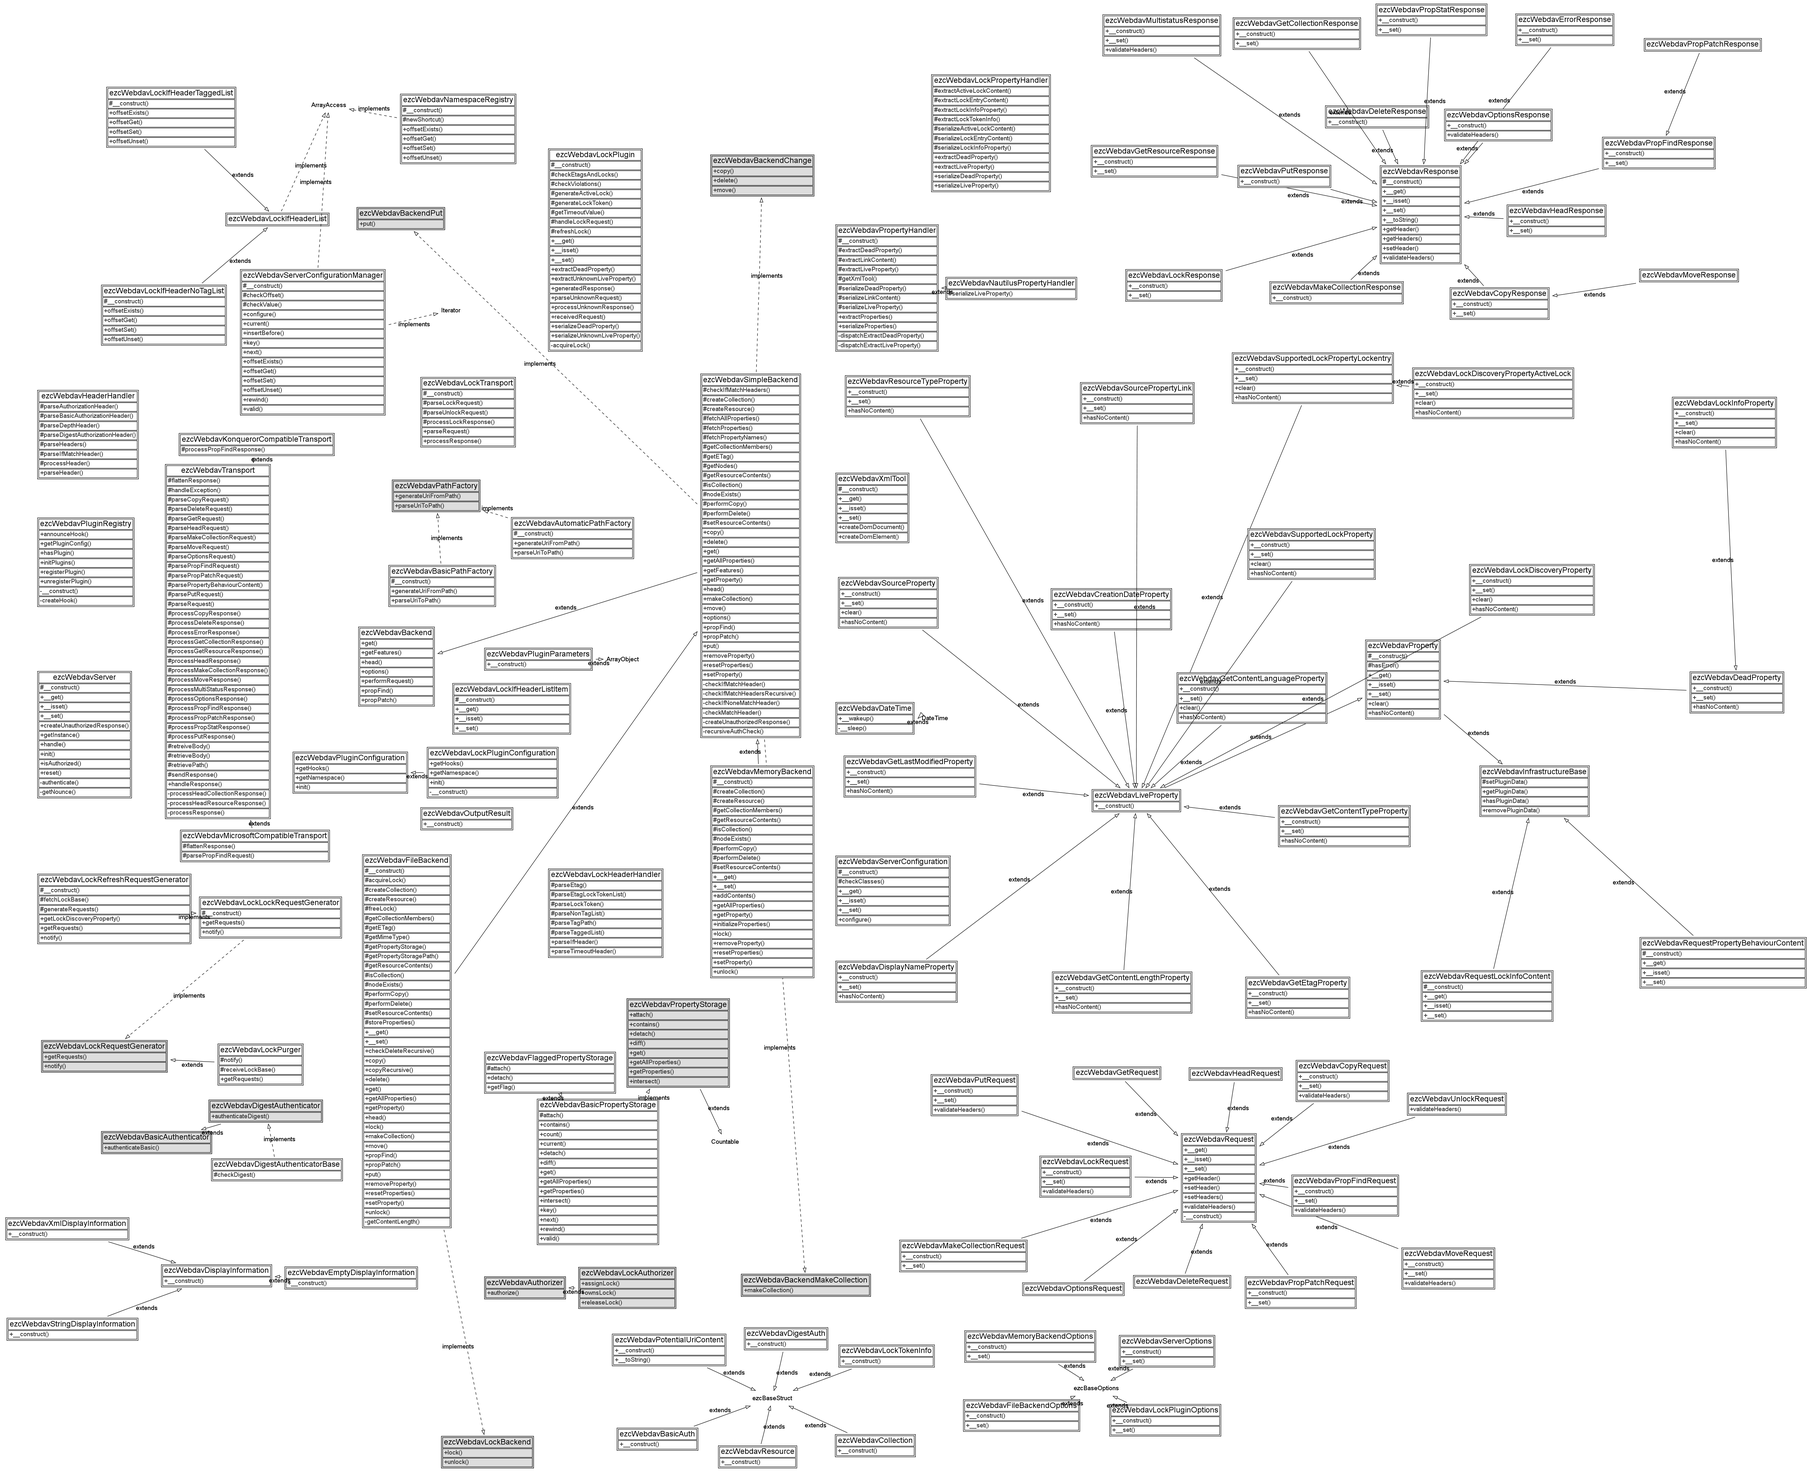
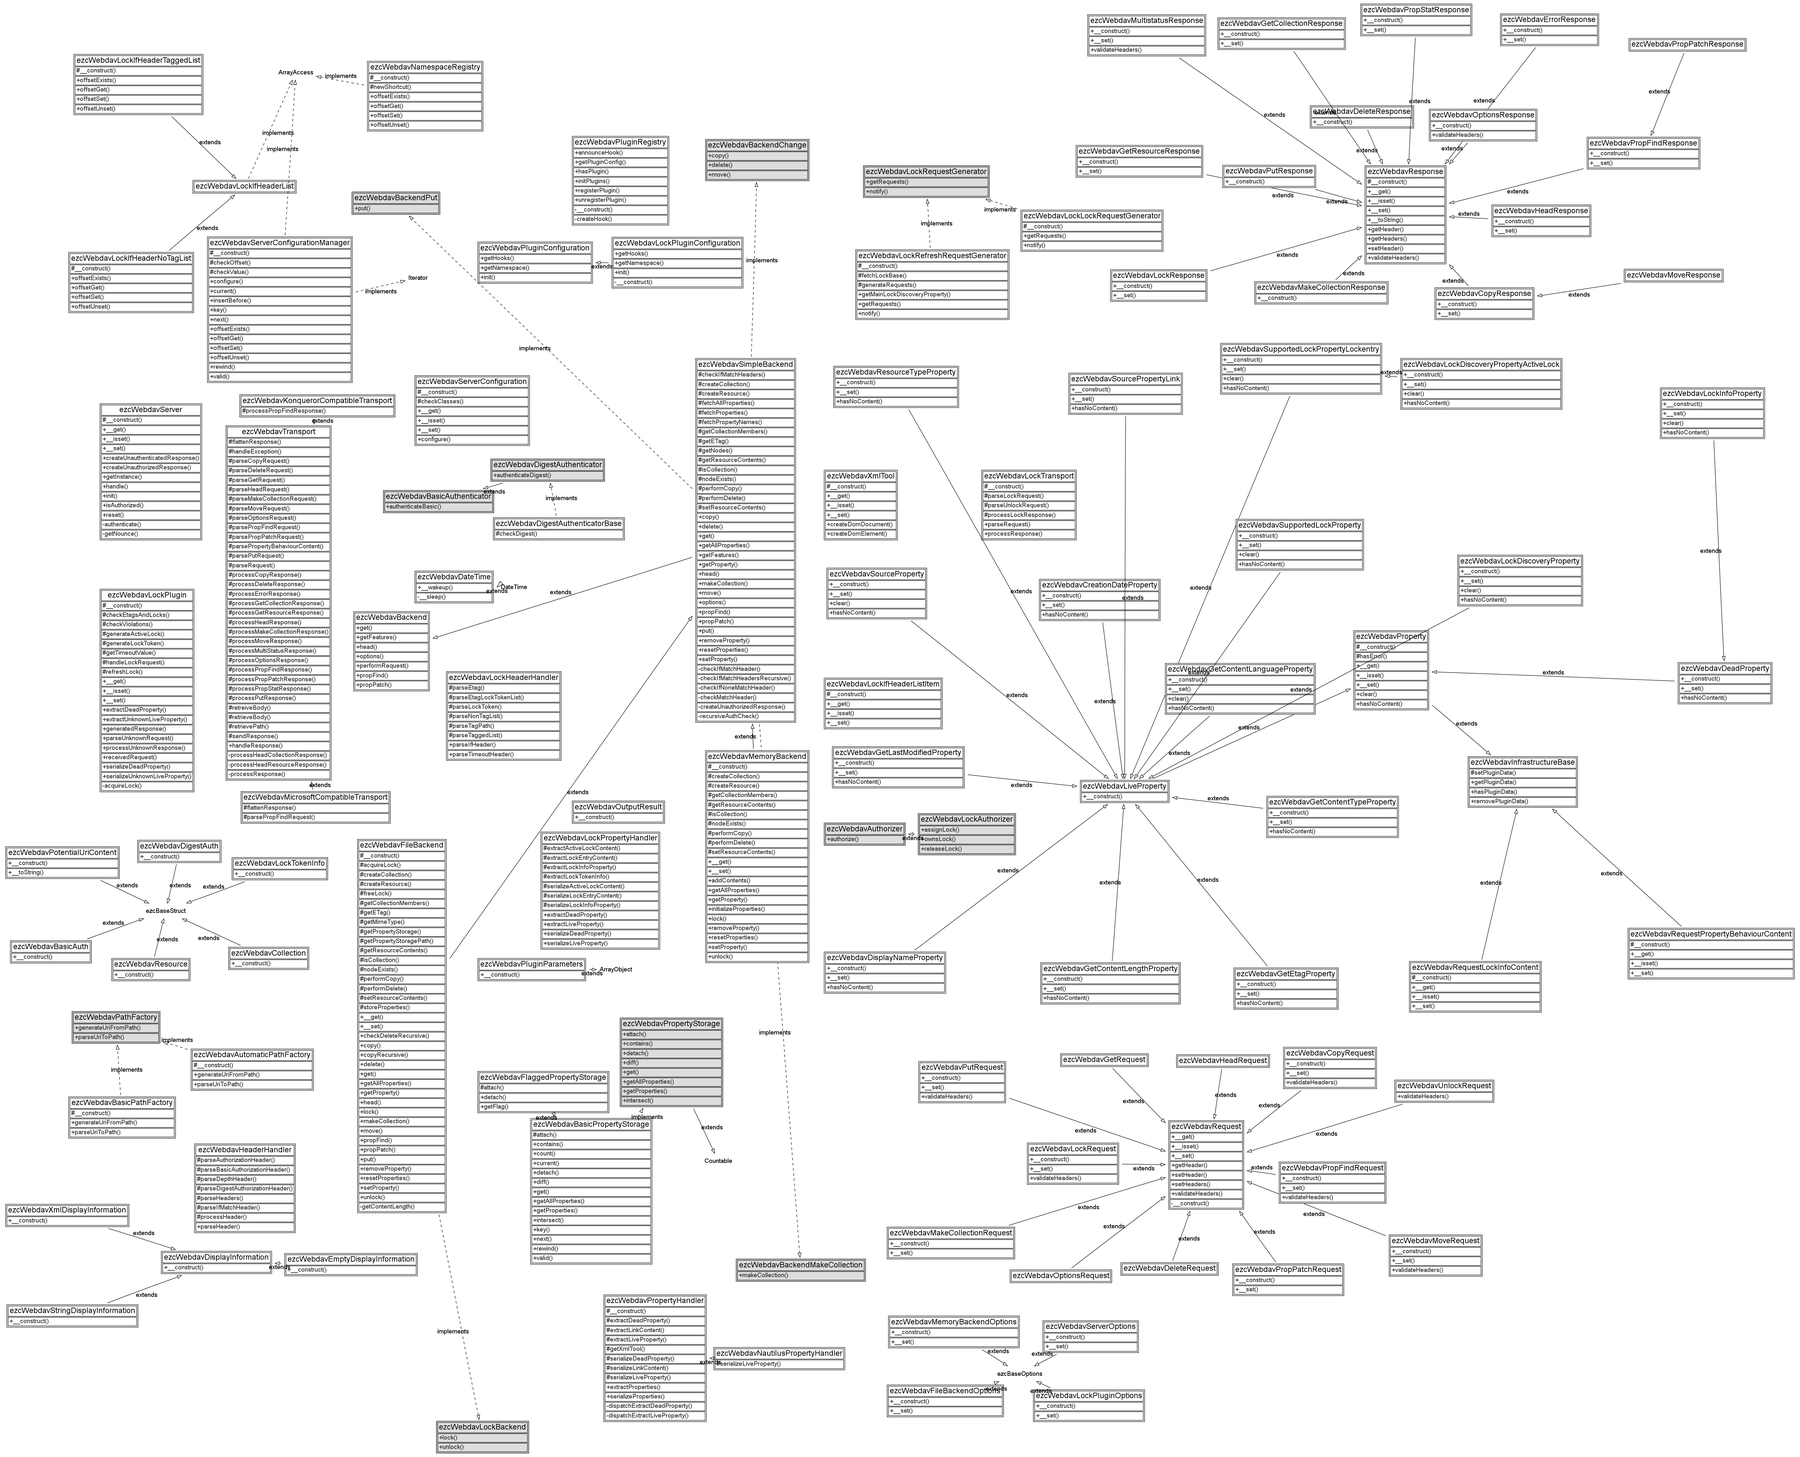
- Adjusted authorization check in the back end to return 401, in case the user   was not logged in at all, or 403, if the authenticated user does not have   authorization for the resource. - Adjusted authentication test cases. - Re-generated autoload file.

diff --git a/src/backends/simple.php b/src/backends/simple.php
@@ -236,7 +236,10 @@ abstract class ezcWebdavSimpleBackend
         // Check authorization
         if ( !ezcWebdavServer::getInstance()->isAuthorized( $request, $source ) )
         {
-            return $this->createUnauthorizedResponse( $source );
+            return $this->createUnauthorizedResponse(
+                $source,
+                $request->getHeader( 'Authorization' )
+            );
         }
 
         // Check if resource is available
@@ -303,7 +306,10 @@ abstract class ezcWebdavSimpleBackend
         // Check authorization
         if ( !ezcWebdavServer::getInstance()->isAuthorized( $request, $source ) )
         {
-            return $this->createUnauthorizedResponse( $source );
+            return $this->createUnauthorizedResponse(
+                $source,
+                $request->getHeader( 'Authorization' )
+            );
         }
 
         // Check if resource is available
@@ -629,7 +635,10 @@ abstract class ezcWebdavSimpleBackend
                 // Check authorization
                 if ( !ezcWebdavServer::getInstance()->isAuthorized( $request, $nodePath ) )
                 {
-                    $responses[] = $this->createUnauthorizedResponse( $nodePath );
+                    $responses[] = $this->createUnauthorizedResponse(
+                        $nodePath,
+                        $request->getHeader( 'Authorization' )
+                    );
                     $unauthorizedPaths[] = $nodePath;
                     // Skip further processing of node
                     continue;
@@ -673,7 +682,10 @@ abstract class ezcWebdavSimpleBackend
         {
             // Globally issue a 401, if the user does not have access to the
             // requested resource itself.
-            return $this->createUnauthorizedResponse( $source );
+            return $this->createUnauthorizedResponse(
+                $source,
+                $request->getHeader( 'Authorization' )
+            );
             // Multistatus with 403 will be issued for nested resources in the
             // specific methods.
         }
@@ -742,7 +754,10 @@ abstract class ezcWebdavSimpleBackend
         // avoid leaking information
         if ( !ezcWebdavServer::getInstance()->isAuthorized( $request, $source, ezcWebdavAuthorizer::ACCESS_WRITE ) )
         {
-            return $this->createUnauthorizedResponse( $source );
+            return $this->createUnauthorizedResponse(
+                $source,
+                $request->getHeader( 'Authorization' )
+            );
         }
 
         // Check if resource is available
@@ -888,7 +903,10 @@ abstract class ezcWebdavSimpleBackend
         // avoid leaking information
         if ( !ezcWebdavServer::getInstance()->isAuthorized( $request, $source, ezcWebdavAuthorizer::ACCESS_WRITE ) )
         {
-            return $this->createUnauthorizedResponse( $source );
+            return $this->createUnauthorizedResponse(
+                $source,
+                $request->getHeader( 'Authorization' )
+            );
         }
 
         // Check if parent node exists and throw a 409 otherwise
@@ -1037,11 +1055,17 @@ abstract class ezcWebdavSimpleBackend
         // avoid leaking information 
         if ( !ezcWebdavServer::getInstance()->isAuthorized( $request, $source ) )
         {
-            return $this->createUnauthorizedResponse( $source );
+            return $this->createUnauthorizedResponse(
+                $source,
+                $request->getHeader( 'Authorization' )
+            );
         }
         if ( !ezcWebdavServer::getInstance()->isAuthorized( $request, $dest, ezcWebdavAuthorizer::ACCESS_WRITE ) )
         {
-            return $this->createUnauthorizedResponse( $dest );
+            return $this->createUnauthorizedResponse(
+                $dest,
+                $request->getHeader( 'Authorization' )
+            );
         }
 
         // Check if resource is available
@@ -1214,7 +1238,10 @@ abstract class ezcWebdavSimpleBackend
         }
         if ( !ezcWebdavServer::getInstance()->isAuthorized( $request, $dest, ezcWebdavAuthorizer::ACCESS_WRITE ) )
         {
-            return $this->createUnauthorizedResponse( $dest );
+            return $this->createUnauthorizedResponse(
+                $dest,
+                $request->getHeader( 'Authorization' )
+            );
         }
 
         // Check if resource is available
@@ -1366,7 +1393,10 @@ abstract class ezcWebdavSimpleBackend
         // avoid leaking information
         if ( !ezcWebdavServer::getInstance()->isAuthorized( $request, $collection, ezcWebdavAuthorizer::ACCESS_WRITE ) )
         {
-            return $this->createUnauthorizedResponse( $collection );
+            return $this->createUnauthorizedResponse(
+                $collection,
+                $request->getHeader( 'Authorization' )
+            );
         }
 
         // If resource already exists, the collection cannot be created and a
@@ -1431,7 +1461,10 @@ abstract class ezcWebdavSimpleBackend
         // Check authorization
         if ( !ezcWebdavServer::getInstance()->isAuthorized( $request, $request->requestUri ) )
         {
-            return $this->createUnauthorizedResponse( $request->requestUri );
+            return $this->createUnauthorizedResponse(
+                $request->requestUri,
+                $request->getHeader( 'Authorization' )
+            );
         }
         
         return parent::options( $request );
@@ -1682,7 +1715,10 @@ abstract class ezcWebdavSimpleBackend
         // Check auth for collections and resources equally
         if ( !ezcWebdavServer::getInstance()->isAuthorized( $request, $path, $access ) )
         {
-            $result['errors'][] = $this->createUnauthorizedResponse( $path );
+            $result['errors'][] = $this->createUnauthorizedResponse(
+                $path,
+                $request->getHeader( 'Authorization' )
+            );
         }
         else
         {
@@ -1718,24 +1754,31 @@ abstract class ezcWebdavSimpleBackend
      *
      * This method returns an instance of {@link ezcWebdavErrorResponse} with a
      * corresponding status code, indicating that the request to $path was not
-     * authorized.
+     * authorized. In case the user did not provide authentication at all, the
+     * status code 401 (Unauthorized) is used to give the possibility of
+     * authenticating. Otherwise 403 (Forbidden) is used, since the
+     * authenticated user simply does not have access.
      * 
      * @param string $path 
+     * @param ezcWebdavAuthBasic|ezcWebdavAúthDigest $authHeader
      * @return ezcWebdavErrorResponse
-     *
-     * @todo Mark protected as soon as API is final.
      */
-    private function createUnauthorizedResponse( $path )
+    private function createUnauthorizedResponse( $path, $authHeader = null )
     {
-        return ezcWebdavServer::getInstance()->createUnauthorizedResponse( $path, 'Authorization failed.' );
-        /*
-         * Solution with 403 instead of 401
-        return new ezcWebdavErrorResponse(
-            ezcWebdavResponse::STATUS_403,
+        // Check for anonymous auth
+        if ( $authHeader === null || $authHeader->username === '' )
+        {
+            return ezcWebdavServer::getInstance()->createUnauthenticatedResponse(
+                $path,
+                'Authorization failed.'
+            );
+        }
+
+        // Authenticated user does not have access
+        return ezcWebdavServer::getInstance()->createUnauthorizedResponse(
             $path,
-            'Unauthorized.'
+            'Authorization failed.'
         );
-        */
     }
 }
 

diff --git a/src/webdav_autoload.php b/src/webdav_autoload.php
@@ -36,7 +36,6 @@ return array(
     'ezcWebdavBackendPut'                             => 'Webdav/interfaces/backend/put.php',
     'ezcWebdavBasicAuthenticator'                     => 'Webdav/interfaces/basic_authenticator.php',
     'ezcWebdavLiveProperty'                           => 'Webdav/interfaces/property_live.php',
-    'ezcWebdavLockRequestGenerator'                   => 'Webdav/plugins/lock/interfaces/request_generator.php',
     'ezcWebdavPropertyStorage'                        => 'Webdav/interfaces/property_storage.php',
     'ezcWebdavResponse'                               => 'Webdav/interfaces/response.php',
     'ezcWebdavAuthorizer'                             => 'Webdav/interfaces/authorizer.php',
@@ -47,7 +46,7 @@ return array(
     'ezcWebdavDisplayInformation'                     => 'Webdav/structs/display_information.php',
     'ezcWebdavLockBackend'                            => 'Webdav/plugins/lock/interfaces/lock_backend.php',
     'ezcWebdavLockIfHeaderList'                       => 'Webdav/plugins/lock/interfaces/if_header_list.php',
-    'ezcWebdavLockLockRequestGenerator'               => 'Webdav/plugins/lock/request_generators/lock.php',
+    'ezcWebdavLockRequestGenerator'                   => 'Webdav/plugins/lock/interfaces/request_generator.php',
     'ezcWebdavPathFactory'                            => 'Webdav/interfaces/path_factory.php',
     'ezcWebdavPluginConfiguration'                    => 'Webdav/plugin_configuration.php',
     'ezcWebdavPropFindResponse'                       => 'Webdav/responses/propfind.php',
@@ -93,11 +92,11 @@ return array(
     'ezcWebdavLockIfHeaderNoTagList'                  => 'Webdav/plugins/lock/header/if_header_no_tag_list.php',
     'ezcWebdavLockIfHeaderTaggedList'                 => 'Webdav/plugins/lock/header/if_header_tagged_list.php',
     'ezcWebdavLockInfoProperty'                       => 'Webdav/plugins/lock/properties/lockinfo.php',
+    'ezcWebdavLockLockRequestGenerator'               => 'Webdav/plugins/lock/request_generators/lock.php',
     'ezcWebdavLockPlugin'                             => 'Webdav/plugins/lock/main.php',
     'ezcWebdavLockPluginConfiguration'                => 'Webdav/plugins/lock/config.php',
     'ezcWebdavLockPluginOptions'                      => 'Webdav/plugins/lock/options.php',
     'ezcWebdavLockPropertyHandler'                    => 'Webdav/plugins/lock/property_handler.php',
-    'ezcWebdavLockPurger'                             => 'Webdav/plugins/lock/request_generators/lock_purge.php',
     'ezcWebdavLockRefreshRequestGenerator'            => 'Webdav/plugins/lock/request_generators/lock_refresh.php',
     'ezcWebdavLockRequest'                            => 'Webdav/requests/lock.php',
     'ezcWebdavLockResponse'                           => 'Webdav/responses/lock.php',

diff --git a/tests/data/auth/proppatch_authenticated_authorization_failure.php b/tests/data/auth/proppatch_authenticated_authorization_failure.php
@@ -26,12 +26,8 @@ xmlns:Z="http://www.w3.com/standards/z39.50/">
         ',
     ),
     array(
-        'status' => 'HTTP/1.1 401 Unauthorized',
+        'status' => 'HTTP/1.1 403 Forbidden',
         'headers' => array(
-            'WWW-Authenticate' => array(
-                'basic'  => 'Basic realm="eZ Components WebDAV"',
-                'digest' => 'Digest realm="eZ Components WebDAV", nonce="testnonce", algorithm="MD5"',
-            ),
             'Server'           => 'eZComponents/dev/ezcWebdavTransportTestMock',
             'Content-Type'     => 'text/plain; charset="utf-8"',
             'Content-Length'   => '21',

diff --git a/tests/data/auth/put_authenticated_authorization_failure.php b/tests/data/auth/put_authenticated_authorization_failure.php
@@ -13,12 +13,8 @@ return array(
         'body' => 'Some text',
     ),
     array(
-        'status' => 'HTTP/1.1 401 Unauthorized',
+        'status' => 'HTTP/1.1 403 Forbidden',
         'headers' => array(
-            'WWW-Authenticate' => array(
-                'basic'  => 'Basic realm="eZ Components WebDAV"',
-                'digest' => 'Digest realm="eZ Components WebDAV", nonce="testnonce", algorithm="MD5"',
-            ),
             'Server'           => 'eZComponents/dev/ezcWebdavTransportTestMock',
             'Content-Type'     => 'text/plain; charset="utf-8"',
             'Content-Length'   => '21',

diff --git a/tests/data/auth/copy_authenticated_destination_authorization_failure.php b/tests/data/auth/copy_authenticated_destination_authorization_failure.php
@@ -12,12 +12,8 @@ return array(
         'body' => '',
     ),
     array(
-        'status' => 'HTTP/1.1 401 Unauthorized',
+        'status' => 'HTTP/1.1 403 Forbidden',
         'headers' => array(
-            'WWW-Authenticate' => array(
-                'basic'  => 'Basic realm="eZ Components WebDAV"',
-                'digest' => 'Digest realm="eZ Components WebDAV", nonce="testnonce", algorithm="MD5"',
-            ),
             'Server'           => 'eZComponents/dev/ezcWebdavTransportTestMock',
             'Content-Type'     => 'text/plain; charset="utf-8"',
             'Content-Length'   => '21',

diff --git a/tests/data/auth/copy_authenticated_source_authorization_failure.php b/tests/data/auth/copy_authenticated_source_authorization_failure.php
@@ -12,12 +12,8 @@ return array(
         'body' => '',
     ),
     array(
-        'status' => 'HTTP/1.1 401 Unauthorized',
+        'status' => 'HTTP/1.1 403 Forbidden',
         'headers' => array(
-            'WWW-Authenticate' => array(
-                'basic'  => 'Basic realm="eZ Components WebDAV"',
-                'digest' => 'Digest realm="eZ Components WebDAV", nonce="testnonce", algorithm="MD5"',
-            ),
             'Server'           => 'eZComponents/dev/ezcWebdavTransportTestMock',
             'Content-Type'     => 'text/plain; charset="utf-8"',
             'Content-Length'   => '21',

diff --git a/tests/data/auth/delete_authenticated_authorization_failure.php b/tests/data/auth/delete_authenticated_authorization_failure.php
@@ -11,12 +11,8 @@ return array(
         'body' => '',
     ),
     array(
-        'status' => 'HTTP/1.1 401 Unauthorized',
+        'status' => 'HTTP/1.1 403 Forbidden',
         'headers' => array(
-            'WWW-Authenticate' => array(
-                'basic'  => 'Basic realm="eZ Components WebDAV"',
-                'digest' => 'Digest realm="eZ Components WebDAV", nonce="testnonce", algorithm="MD5"',
-            ),
             'Server'           => 'eZComponents/dev/ezcWebdavTransportTestMock',
             'Content-Type'     => 'text/plain; charset="utf-8"',
             'Content-Length'   => '21',

diff --git a/tests/data/auth/get_authenticated_authorization_failure.php b/tests/data/auth/get_authenticated_authorization_failure.php
@@ -11,12 +11,8 @@ return array(
         'body' => '',
     ),
     array(
-        'status' => 'HTTP/1.1 401 Unauthorized',
+        'status' => 'HTTP/1.1 403 Forbidden',
         'headers' => array(
-            'WWW-Authenticate' => array(
-                'basic'  => 'Basic realm="eZ Components WebDAV"',
-                'digest' => 'Digest realm="eZ Components WebDAV", nonce="testnonce", algorithm="MD5"',
-            ),
             'Server'           => 'eZComponents/dev/ezcWebdavTransportTestMock',
             'Content-Type'     => 'text/plain; charset="utf-8"',
             'Content-Length'   => '21',

diff --git a/tests/data/auth/head_authenticated_authorization_failure.php b/tests/data/auth/head_authenticated_authorization_failure.php
@@ -11,12 +11,8 @@ return array(
         'body' => '',
     ),
     array(
-        'status' => 'HTTP/1.1 401 Unauthorized',
+        'status' => 'HTTP/1.1 403 Forbidden',
         'headers' => array(
-            'WWW-Authenticate' => array(
-                'basic'  => 'Basic realm="eZ Components WebDAV"',
-                'digest' => 'Digest realm="eZ Components WebDAV", nonce="testnonce", algorithm="MD5"',
-            ),
             'Server'           => 'eZComponents/dev/ezcWebdavTransportTestMock',
             'Content-Type'     => 'text/plain; charset="utf-8"',
             'Content-Length'   => '21',

diff --git a/tests/data/auth/mkcol_authenticated_authorization_failure.php b/tests/data/auth/mkcol_authenticated_authorization_failure.php
@@ -11,12 +11,8 @@ return array(
         'body' => '',
     ),
     array(
-        'status' => 'HTTP/1.1 401 Unauthorized',
+        'status' => 'HTTP/1.1 403 Forbidden',
         'headers' => array(
-            'WWW-Authenticate' => array(
-                'basic'  => 'Basic realm="eZ Components WebDAV"',
-                'digest' => 'Digest realm="eZ Components WebDAV", nonce="testnonce", algorithm="MD5"',
-            ),
             'Server'           => 'eZComponents/dev/ezcWebdavTransportTestMock',
             'Content-Type'     => 'text/plain; charset="utf-8"',
             'Content-Length'   => '21',

diff --git a/tests/data/auth/move_authenticated_destination_authorization_failure.php b/tests/data/auth/move_authenticated_destination_authorization_failure.php
@@ -12,12 +12,8 @@ return array(
         'body' => '',
     ),
     array(
-        'status' => 'HTTP/1.1 401 Unauthorized',
+        'status' => 'HTTP/1.1 403 Forbidden',
         'headers' => array(
-            'WWW-Authenticate' => array(
-                'basic'  => 'Basic realm="eZ Components WebDAV"',
-                'digest' => 'Digest realm="eZ Components WebDAV", nonce="testnonce", algorithm="MD5"',
-            ),
             'Server'           => 'eZComponents/dev/ezcWebdavTransportTestMock',
             'Content-Type'     => 'text/plain; charset="utf-8"',
             'Content-Length'   => '21',

diff --git a/tests/data/auth/move_authenticated_source_authorization_failure.php b/tests/data/auth/move_authenticated_source_authorization_failure.php
@@ -12,12 +12,8 @@ return array(
         'body' => '',
     ),
     array(
-        'status' => 'HTTP/1.1 401 Unauthorized',
+        'status' => 'HTTP/1.1 403 Forbidden',
         'headers' => array(
-            'WWW-Authenticate' => array(
-                'basic'  => 'Basic realm="eZ Components WebDAV"',
-                'digest' => 'Digest realm="eZ Components WebDAV", nonce="testnonce", algorithm="MD5"',
-            ),
             'Server'           => 'eZComponents/dev/ezcWebdavTransportTestMock',
             'Content-Type'     => 'text/plain; charset="utf-8"',
             'Content-Length'   => '21',
